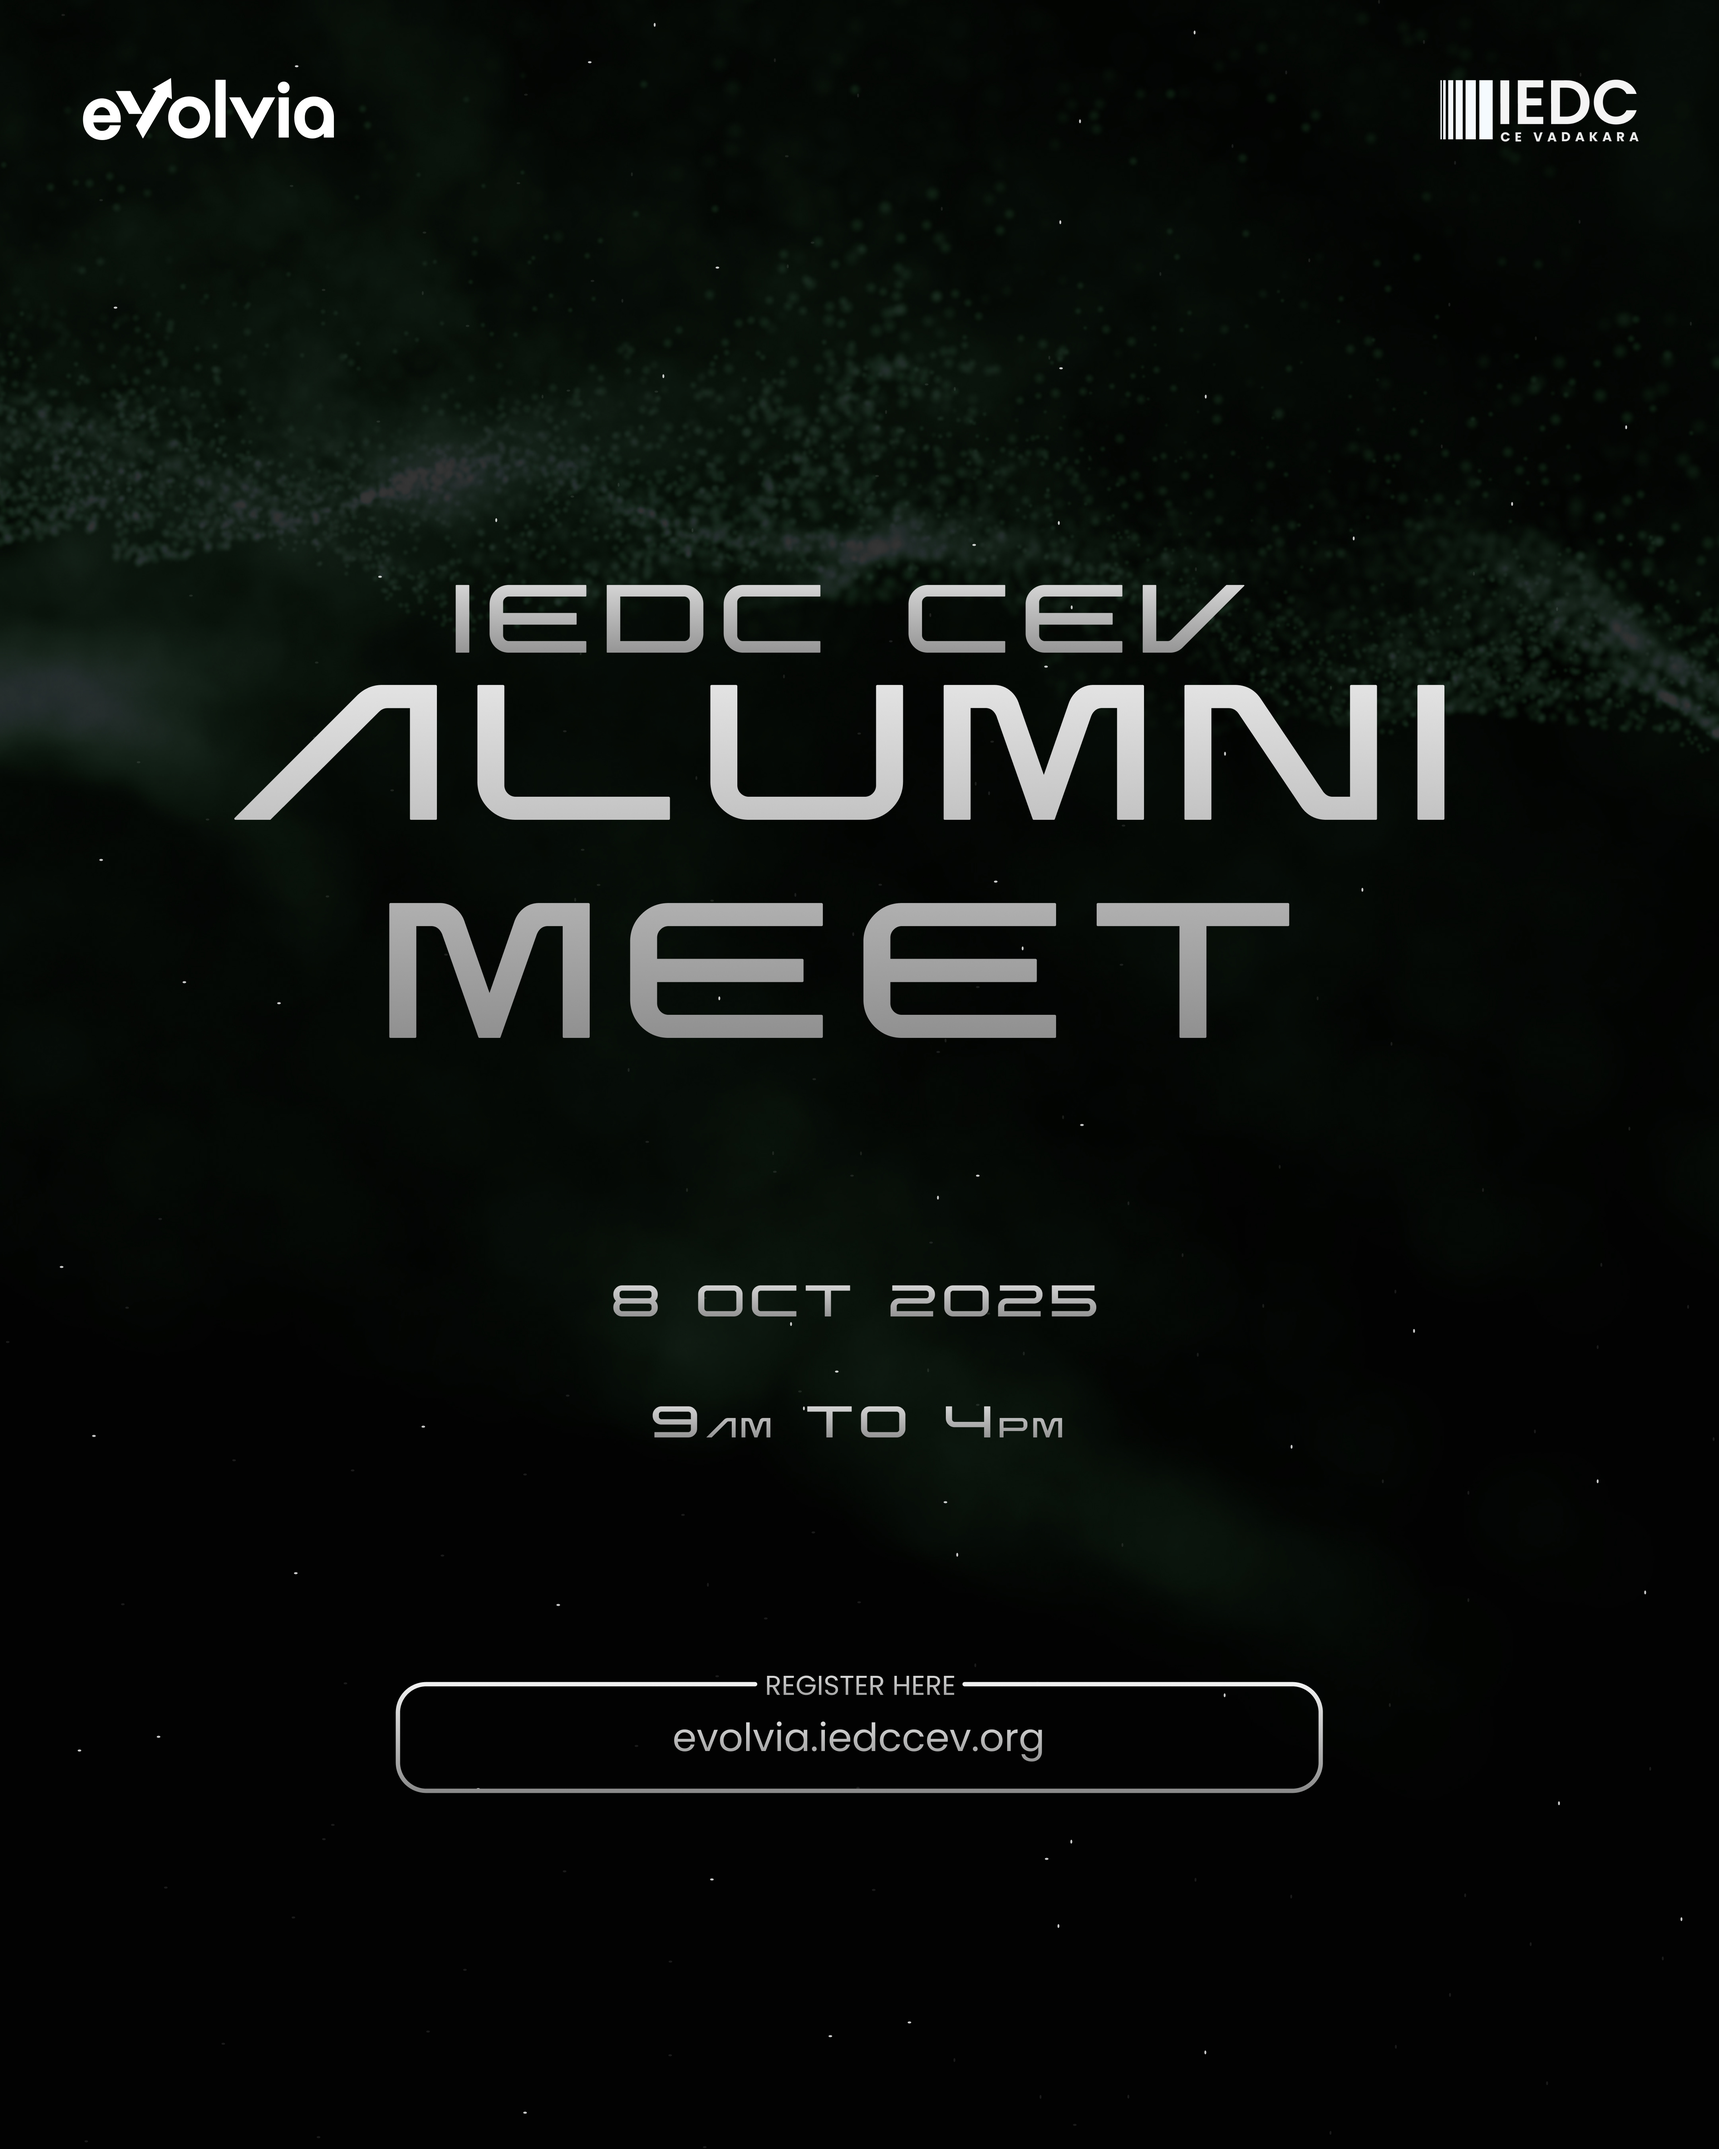
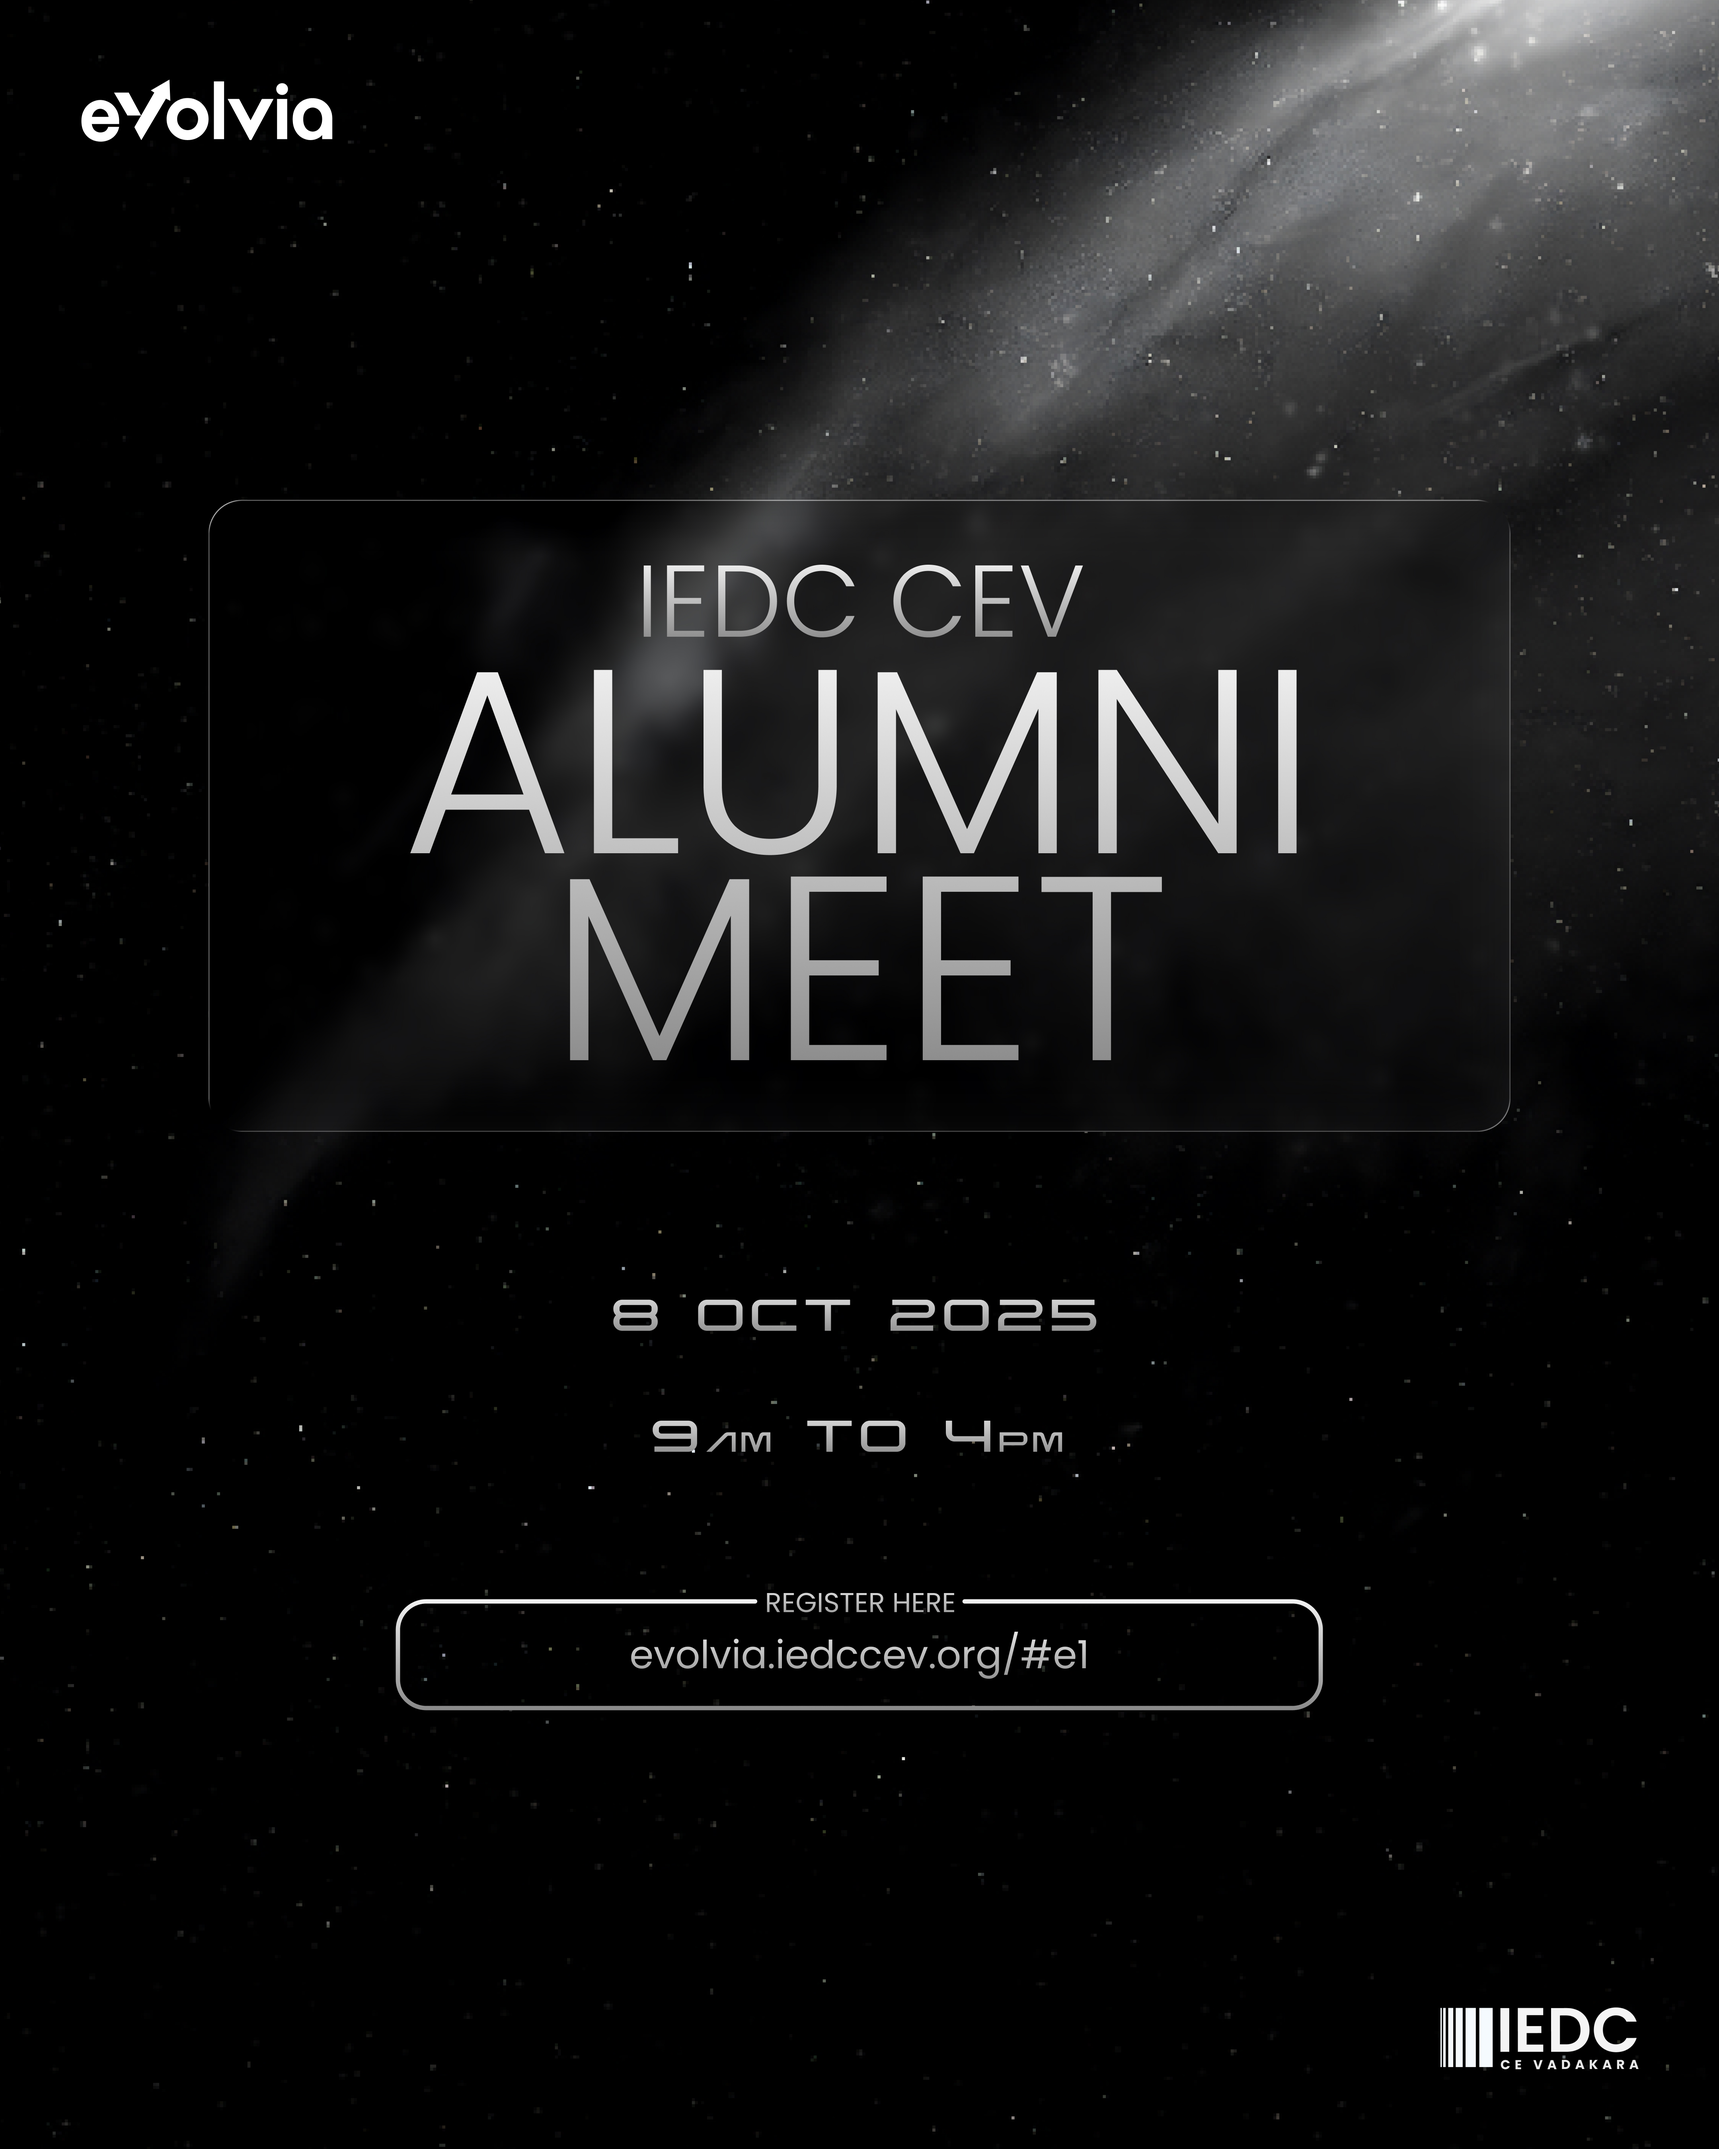
added new poster

diff --git a/src/app/page.tsx b/src/app/page.tsx
@@ -292,7 +292,7 @@ export default function Home() {
                   {/* <div className="w-1 h-[30%] md:hidden bg-gradient-to-b from-black via-white to-black"></div> */}
 
                   <motion.div 
-                    className="mb-4 overflow-hidden rounded-sm flex-col w-[100%]"
+                    className="mb-4 overflow-hidden rounded-sm flex-col w-[100%] border-0"
                     whileHover={{ scale: 1.02 }}
                     whileTap={{ scale: 0.98 }}
                     transition={{ duration: 0.3 }}

diff --git a/src/components/eventLists.tsx b/src/components/eventLists.tsx
@@ -24,7 +24,7 @@ export const preEvents=[
 export const Events = [
   {
     id:"e1",
-    name: "IEDC CEV Alumini Meet",
+    name: "IEDC CEV ALUMINI MEET",
     image:"/alumini.webp",
     spec:"Exclusively for Aluminis",
     link:"https://snaptiqz.com/event/iuqDD8FbT7rFE5UvJTu5j",
